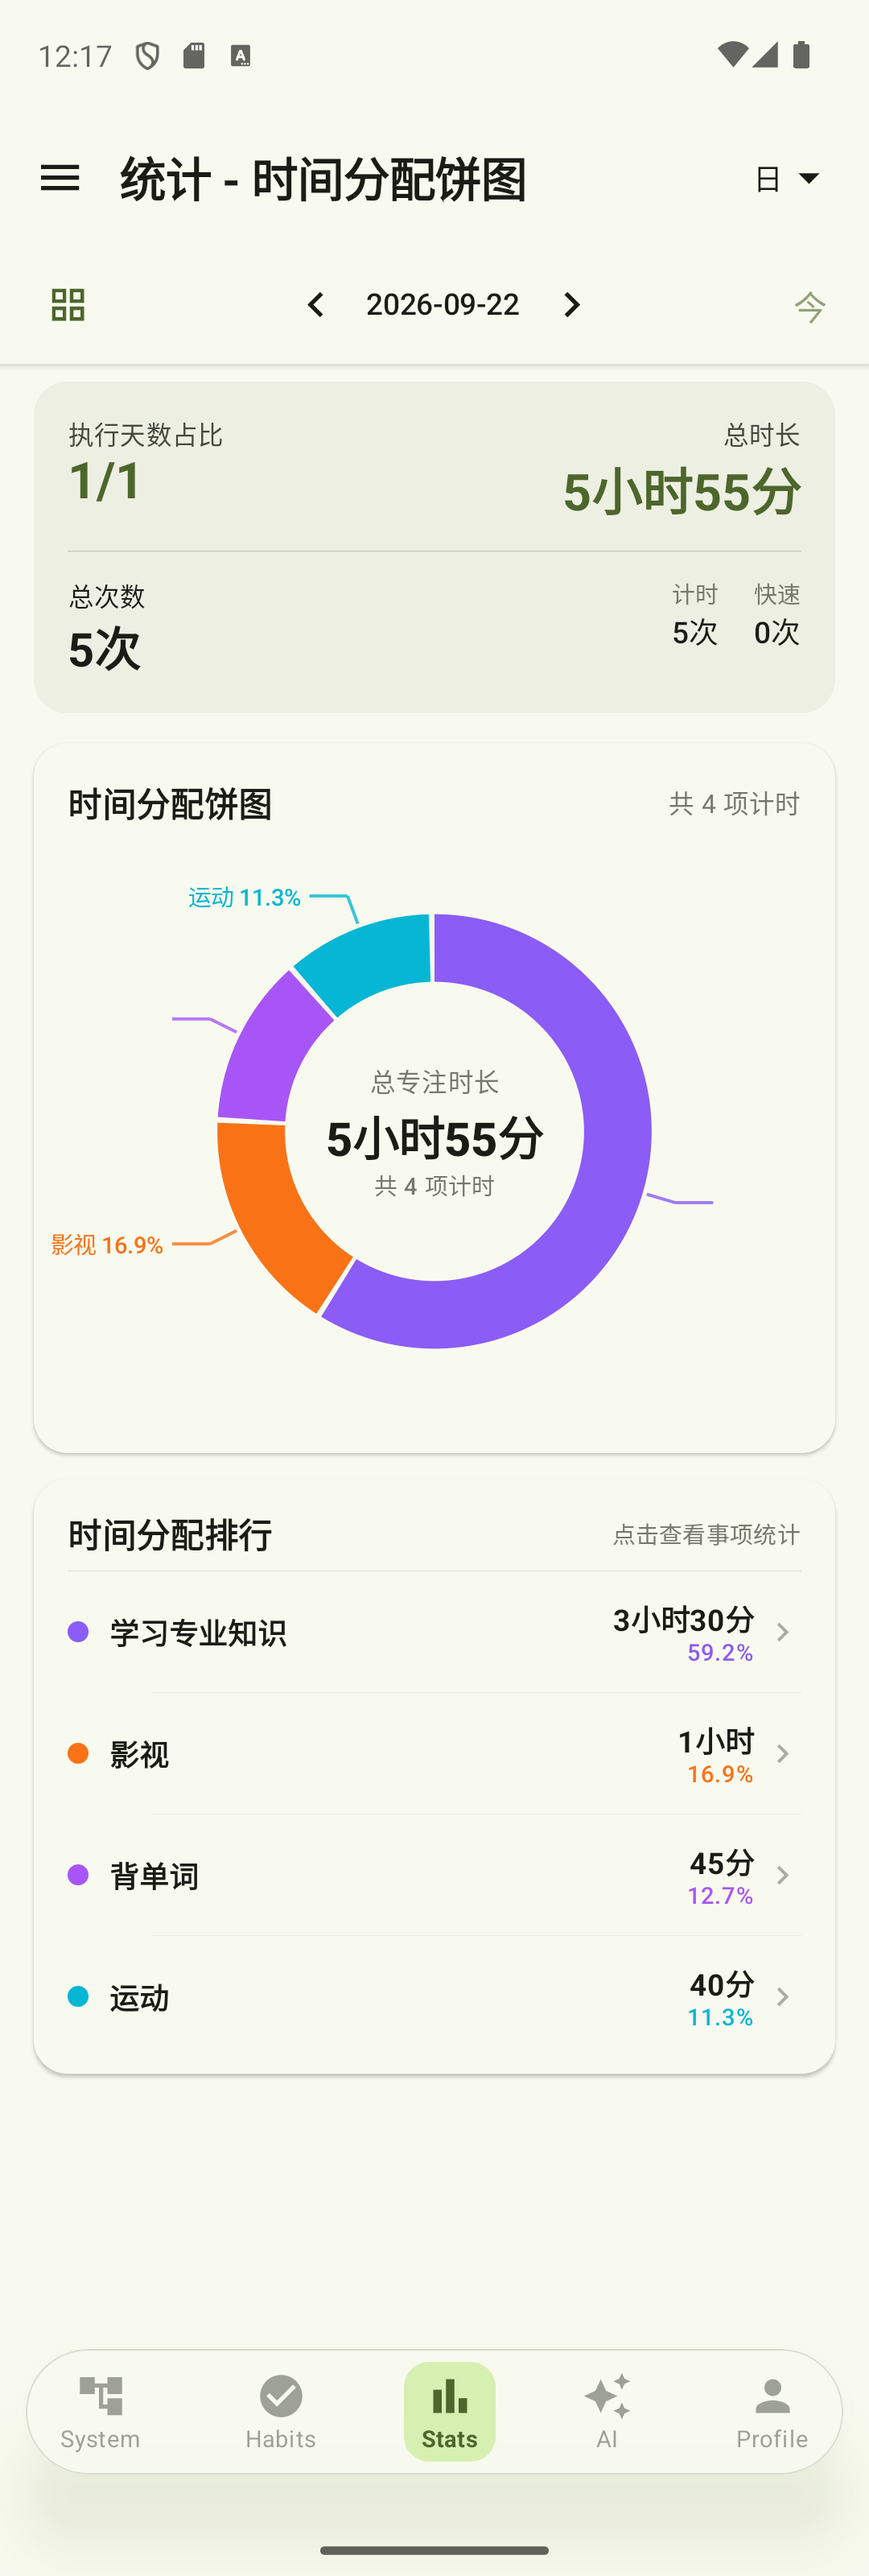
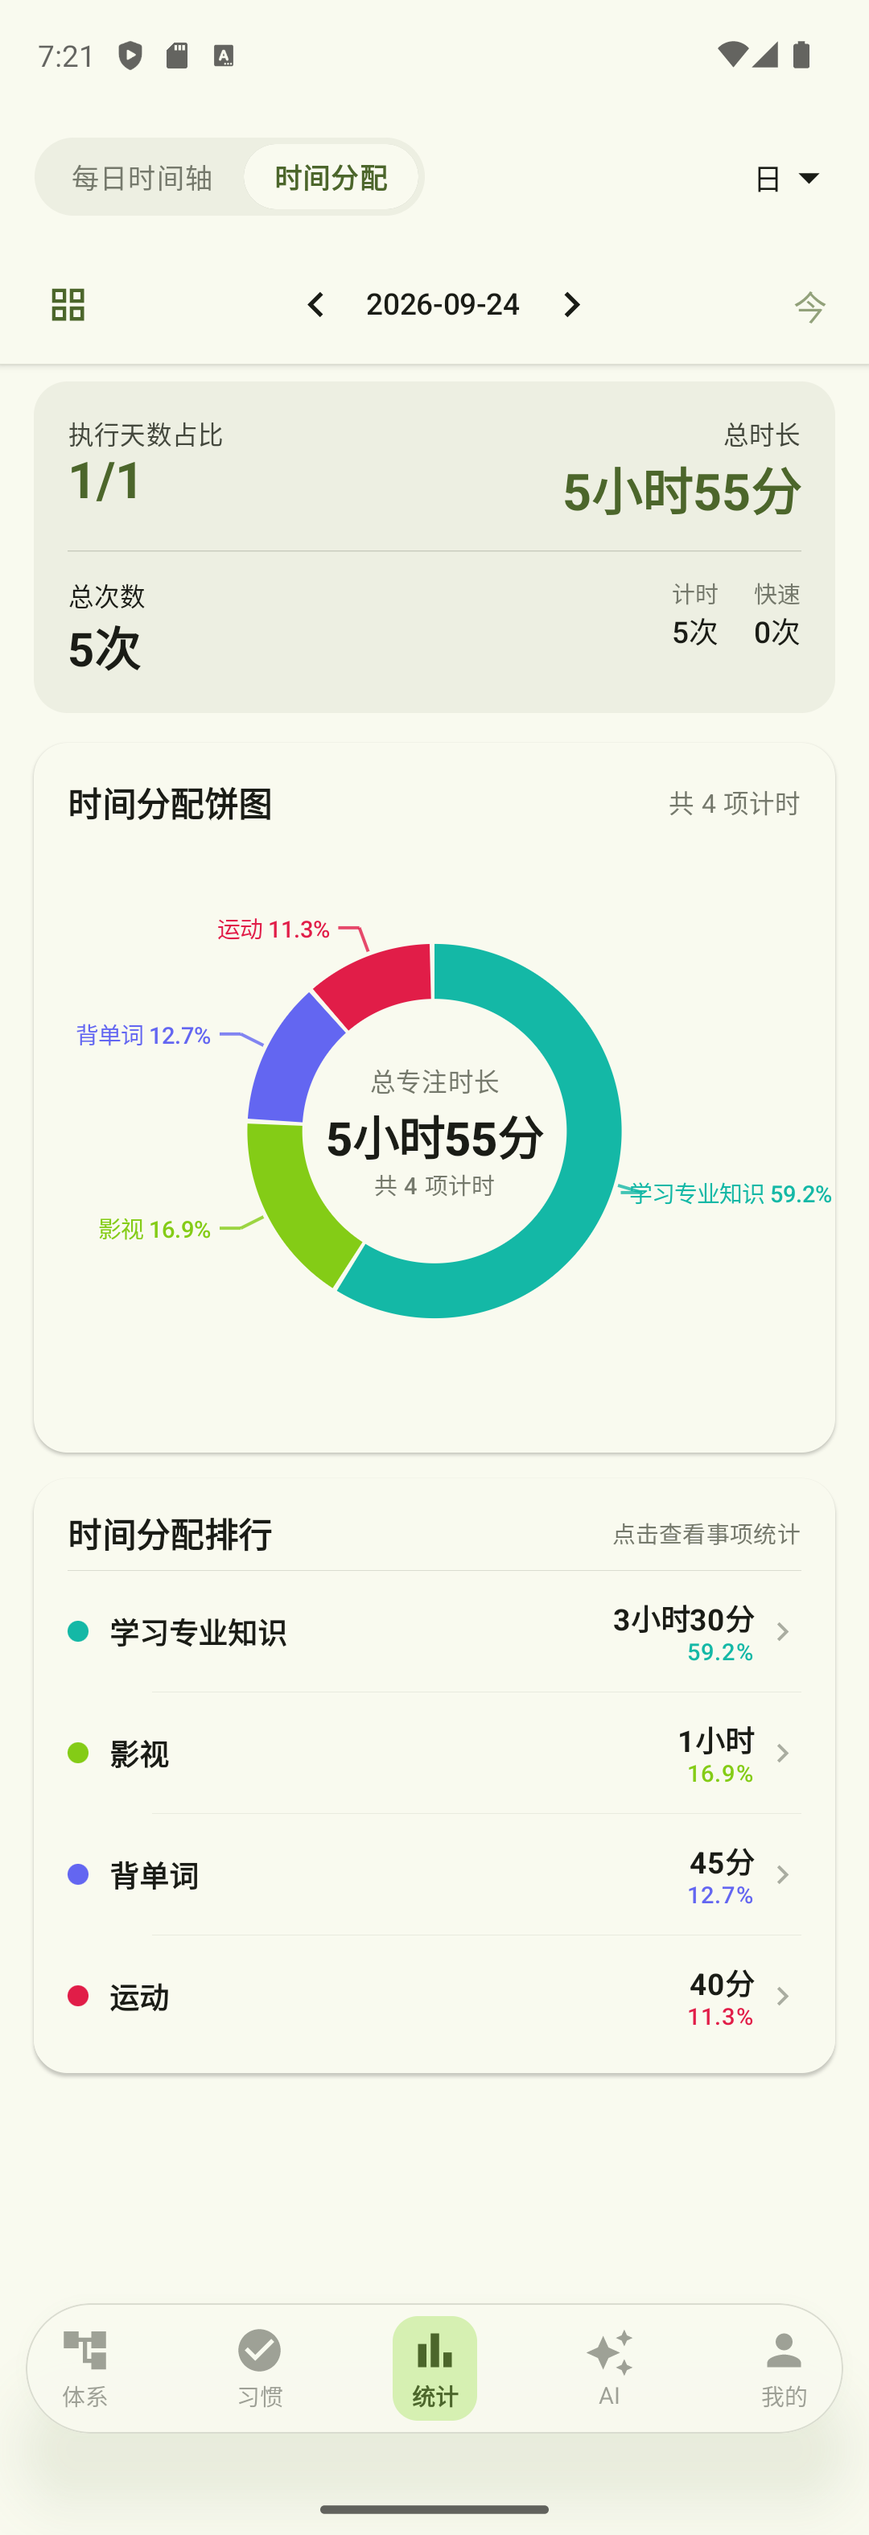
修改下载页面

diff --git a/download.md b/download.md
@@ -11,21 +11,28 @@
 ## 官方下载通道
 
 <div style="display: flex; gap: 16px; margin-top: 24px; flex-wrap: wrap;">
+  <a href="#" target="_blank" style="background-color: #0088ff; color: white; padding: 12px 24px; border-radius: 8px; font-weight: bold; text-decoration: none; display: flex; align-items: center; gap: 8px; transition: opacity 0.2s;">
+    ☁ 夸克网盘下载
+  </a>
+  <a href="#" target="_blank" style="background-color: #0ba360; color: white; padding: 12px 24px; border-radius: 8px; font-weight: bold; text-decoration: none; display: flex; align-items: center; gap: 8px; transition: opacity 0.2s;">
+    🟢 酷安市场
+  </a>
+  <a href="#" target="_blank" style="background-color: #4285f4; color: white; padding: 12px 24px; border-radius: 8px; font-weight: bold; text-decoration: none; display: flex; align-items: center; gap: 8px; transition: opacity 0.2s;">
+    🛒 Google Play
+  </a>
   <a href="https://github.com/may-sherry/GrowthNote/releases/download/v1.0.0/app-release.apk" target="_blank" style="background-color: #2ea44f; color: white; padding: 12px 24px; border-radius: 8px; font-weight: bold; text-decoration: none; display: flex; align-items: center; gap: 8px; transition: opacity 0.2s;">
     <svg viewBox="0 0 16 16" width="16" height="16" fill="currentColor"><path d="M8 0c4.42 0 8 3.58 8 8a8.013 8.013 0 0 1-5.45 7.59c-.4.08-.55-.17-.55-.38 0-.27.01-1.13.01-2.2 0-.75-.25-1.23-.54-1.48 1.78-.2 3.65-.88 3.65-3.95 0-.88-.31-1.59-.82-2.15.08-.2.36-1.02-.08-2.12 0 0-.67-.22-2.2.82-.64-.18-1.32-.27-2-.27-.68 0-1.36.09-2 .27-1.53-1.03-2.2-.82-2.2-.82-.44 1.1-.16 1.92-.08 2.12-.51.56-.82 1.28-.82 2.15 0 3.06 1.86 3.75 3.64 3.95-.23.2-.44.55-.51 1.07-.46.21-1.61.55-2.33-.66-.15-.24-.6-.83-1.23-.82-.67.01-.27.38.01.53.34.19.73.9.82 1.13.16.45.68 1.31 2.69.94 0 .67.01 1.3.01 1.49 0 .21-.15.45-.55.38A7.995 7.995 0 0 1 0 8c0-4.42 3.58-8 8-8Z"></path></svg>
-    GitHub 官方直链下载 (v1.0.0)
-  </a>
-  <a href="https://wwayt.lanzoul.com/in7ow49qk04j" target="_blank" style="background-color: #007aff; color: white; padding: 12px 24px; border-radius: 8px; font-weight: bold; text-decoration: none; display: flex; align-items: center; gap: 8px; transition: opacity 0.2s;">
-    <svg viewBox="0 0 24 24" width="18" height="18" fill="none" stroke="currentColor" stroke-width="2" stroke-linecap="round" stroke-linejoin="round"><path d="M8 17l4 4 4-4"/><path d="M12 12v9"/><path d="M20.88 18.09A5 5 0 0 0 18 9h-1.26A8 8 0 1 0 3 16.29"/></svg>
-    蓝奏云高速下载 (密码: 1111)
+    GitHub Release
   </a>
 </div>
 
 <br>
 
 > **💡 通道说明**：
-> 1. **蓝奏云通道（强烈推荐）**：国内网络首选，免登录满速下载。
-> 2. **GitHub 通道**：适合能够顺畅访问全球网络的用户，直接拉取官方最新版本。
+> 1. **夸克网盘**：国内网络极速下载。
+> 2. **酷安**：欢迎各位酷友前往社区交流打分。
+> 3. **Google Play**：官方认证，提供最安全的自动更新。
+> 4. **GitHub Release**：直连通道，但**强烈建议使用手机流量下载，校园网等 Wi-Fi 可能会屏蔽导致打不开**。
 
 ## 历史版本更新
 
